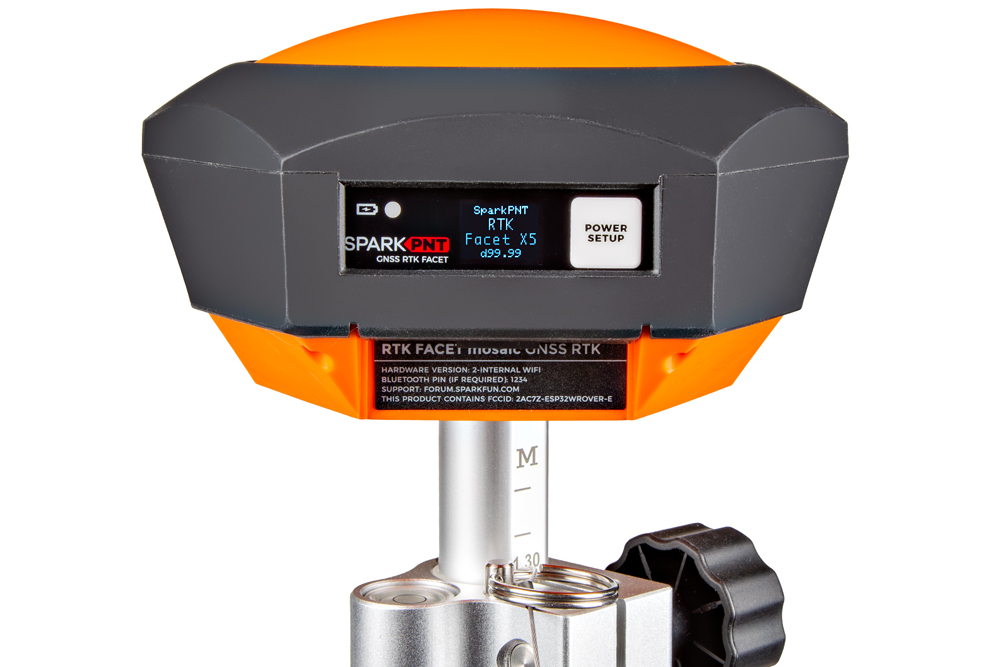
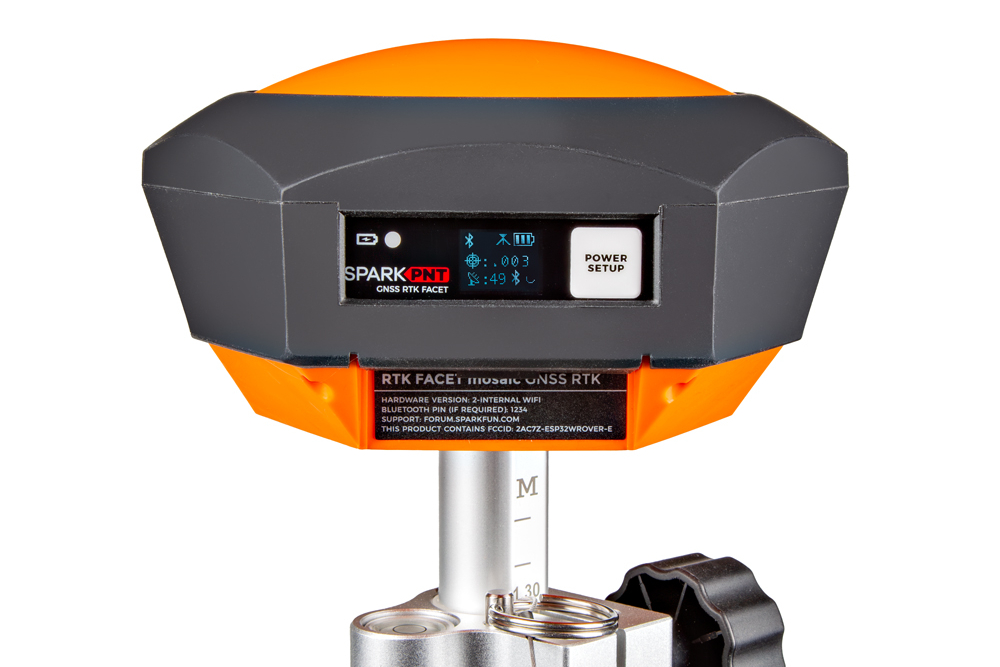
Fix photos

Changed region(s): [[0.124, 0.0, 0.868, 0.7496], [0.341, 0.7796, 0.806, 1.0], [0.341, 0.1799, 0.372, 0.2099]]

diff --git a/docs/hardware_overview.md b/docs/hardware_overview.md
@@ -160,7 +160,7 @@ The design of the SparkPNT RTK Facet mosaic L-Band is similar to previous genera
 ## Power/Setup Button
 
 <figure markdown>
-![RTK Facet mosaic Front Face](https://cdn.sparkfun.com//assets/parts/1/9/7/4/6/20000-SparkFun_RTK_Facet_L-Band-01.jpg)
+[![RTK Facet mosaic Front Face](./assets/img/hookup_guide/button-external_power-setup.png){ width="500" }](./assets/img/hookup_guide/button-external_power-setup.png "Click to enlarge")
 <figcaption markdown>
 </figcaption>
 The ++"POWER/SETUP"++ button on the front of the RTK Facet mosaic.
@@ -214,7 +214,7 @@ The RTK Facet mosaic has a large, built-in 6000mAh lithium polymer battery that 
 #### Charge LED
 
 <figure markdown>
-[![RTK Facet mosaic Charge LED](https://cdn.sparkfun.com/r/600-600/assets/learn_tutorials/2/1/8/8/SparkFun_RTK_Facet_-_Front_Face_-_Charge_LED.jpg)](https://cdn.sparkfun.com/assets/learn_tutorials/2/1/8/8/SparkFun_RTK_Facet_-_Front_Face_-_Charge_LED.jpg)
+[![RTK Facet mosaic Charge LED](./assets/img/hookup_guide/LED-charge.png){ width="500" }](./assets/img/hookup_guide/LED-charge.png "Click to enlarge")
 <figcaption markdown>
 Charge LED indicator on the RTK Facet mosaic.
 </figcaption>
@@ -251,7 +251,7 @@ At *Power On* the device will enter **Rover** or **Base** mode; whichever state 
 ## Connectors
 
 <figure markdown>
-[![RTK Facet mosaic Connectors](https://cdn.sparkfun.com/r/600-600/assets/learn_tutorials/2/1/8/8/SparkFun_RTK_Facet_-_Ports.jpg)](https://cdn.sparkfun.com/assets/learn_tutorials/2/1/8/8/SparkFun_RTK_Facet_-_Ports.jpg)
+[![RTK Facet mosaic Connectors](./assets/img/hookup_guide/connections.png){ width="500" }](./assets/img/hookup_guide/connections.png "Click to enlarge")
 <figcaption markdown>
 The SparkFun RTK Facet mosaic connectors shown with the dust cover removed.
 </figcaption>
@@ -262,7 +262,7 @@ There are a variety of connectors protected under a dust flap.
 ### USB
 
 <figure markdown>
-[![RTK Facet mosaic USB-C Connector](https://cdn.sparkfun.com/r/600-600/assets/learn_tutorials/2/1/8/8/SparkFun_RTK_Facet_-_Ports_-_USB.jpg)](https://cdn.sparkfun.com/assets/learn_tutorials/2/1/8/8/SparkFun_RTK_Facet_-_Ports_-_USB.jpg)
+[![RTK Facet mosaic USB-C Connector](./assets/img/hookup_guide/connections-usb.png){ width="500" }](./assets/img/hookup_guide/connections-usb.png "Click to enlarge")
 <figcaption markdown>
 </figcaption>
 </figure>
@@ -284,7 +284,7 @@ There is a USB hub built into the RTK Facet mosaic. When you attach the device t
 In the image above, the `USB-SERIAL CH340` is the ESP32 and the `USB Serial Device` is the mosaic-X5.
 
 ??? tip "Tip - USB Drivers"
-	### CH340 UART Converter
+	#### CH340 UART Converter
 	The CH340 serial-to-USB converter allows users to interface with the ESP32-WROVER-E module through the USB-C connector. To utilize the CH340, users may need to install a USB driver, which can be downloaded from the [manufacturer website](https://www.wch-ic.com/search?q=CH342&t=downloads).
 
 	<div class="grid cards" align="center" markdown>
@@ -312,8 +312,10 @@ In the image above, the `USB-SERIAL CH340` is the ESP32 and the `USB Serial Devi
 		</center>
 
 
+	---
 
-	### mosaic-X5
+
+	#### mosaic-X5
 	On Windows computers, a USB driver is required to recognize and interact with the mosaic-X5 module through the USB interface.
 
 
@@ -363,7 +365,7 @@ Configuring the RTK Facet mosaic can be done over the *USB-Serial CH340* COM por
 ### Radio
 
 <figure markdown>
-[![RTK Facet mosaic Radio Connector](https://cdn.sparkfun.com/r/600-600/assets/learn_tutorials/2/1/8/8/SparkFun_RTK_Facet_-_Ports_-_Radio.jpg)](https://cdn.sparkfun.com/assets/learn_tutorials/2/1/8/8/SparkFun_RTK_Facet_-_Ports_-_Radio.jpg)
+[![RTK Facet mosaic Radio Connector](./assets/img/hookup_guide/connections-data.png){ width="500" }](./assets/img/hookup_guide/connections-data.png "Click to enlarge")
 <figcaption markdown>
 </figcaption>
 </figure>
@@ -382,7 +384,7 @@ This 4-pin JST connector can be used to allow RTCM correction data to flow into 
 ### Data
 
 <figure markdown>
-[![RTK Facet mosaic Data Port](https://cdn.sparkfun.com/r/600-600/assets/learn_tutorials/2/1/8/8/SparkFun_RTK_Facet_-_Ports_-_Data.jpg)](https://cdn.sparkfun.com/assets/learn_tutorials/2/1/8/8/SparkFun_RTK_Facet_-_Ports_-_Data.jpg)
+[![RTK Facet mosaic Data Port](./assets/img/hookup_guide/connections-data.png){ width="500" }](./assets/img/hookup_guide/connections-data.png "Click to enlarge")
 <figcaption markdown>
 </figcaption>
 </figure>
@@ -412,8 +414,7 @@ Most applications do not need to utilize this port and will send the NMEA positi
 ### microSD
 
 <figure markdown>
-[![RTK Facet mosaic microSD connector](https://cdn.sparkfun.com/r/600-600/assets/learn_tutorials/2/1/8/8/SparkFun_RTK_Facet_-_Ports_-_microSD.jpg)](https://cdn.sparkfun.com/assets/learn_tutorials/2/1/8/8/SparkFun_RTK_Facet_-_Ports_-_microSD.jpg)
-<figcaption markdown>
+[![RTK Facet mosaic microSD connector](./assets/img/hookup_guide/connections-micro_sd.png){ width="500" }](./assets/img/hookup_guide/connections-micro_sd.png "Click to enlarge")
 </figcaption>
 </figure>
 
@@ -499,7 +500,7 @@ The following messages are supported for logging:
 ### Qwiic
 
 <figure markdown>
-[![RTK Facet mosaic Qwiic connector](https://cdn.sparkfun.com/r/600-600/assets/learn_tutorials/2/1/8/8/SparkFun_RTK_Facet_-_Ports_-_Qwiic.jpg)](https://cdn.sparkfun.com/assets/learn_tutorials/2/1/8/8/SparkFun_RTK_Facet_-_Ports_-_Qwiic.jpg)
+[![RTK Facet mosaic Qwiic connector](./assets/img/hookup_guide/connections-qwiic.png){ width="500" }](./assets/img/hookup_guide/connections-qwiic.png "Click to enlarge")
 <figcaption markdown>
 </figcaption>
 </figure>
@@ -511,7 +512,7 @@ This 4-pin [Qwiic connector](https://www.sparkfun.com/qwiic) exposes the I^2^C b
 ### Antenna
 
 <figure markdown>
-![Internal RTK Facet mosaic Antenna](https://cdn.sparkfun.com//assets/parts/1/9/7/4/6/20000-SparkFun_RTK_Facet_L-Band-02.jpg)
+[![Internal RTK Facet mosaic Antenna](./assets/img/hookup_guide/antenna.png){ width="500" }](./assets/img/hookup_guide/antenna.png "Click to enlarge")
 <figcaption markdown>
 </figcaption>
 </figure>
@@ -519,7 +520,7 @@ This 4-pin [Qwiic connector](https://www.sparkfun.com/qwiic) exposes the I^2^C b
 It's built in! Housed under the dome of the RTK Facet mosaic is a surveyor grade L1/L2/L-Band antenna. This antenna is a unique combination of elements designed to receive the GNSS signals (L1/L2) alongside the 1.55GHz PointPerfect corrections.
 
 <figure markdown>
-[![SparkFun RTK Facet mosaic Antenna Reference Point](https://cdn.sparkfun.com/r/600-600/assets/learn_tutorials/2/5/8/3/SparkFun_RTK_Facet_L-Band_ARP.jpg)](https://cdn.sparkfun.com/assets/learn_tutorials/2/5/8/3/SparkFun_RTK_Facet_L-Band_ARP.jpg)
+[![SparkFun RTK Facet mosaic Antenna Reference Point](https://cdn.sparkfun.com/r/500-500/assets/learn_tutorials/2/5/8/3/SparkFun_RTK_Facet_L-Band_ARP.jpg)](https://cdn.sparkfun.com/assets/learn_tutorials/2/5/8/3/SparkFun_RTK_Facet_L-Band_ARP.jpg)
 <figcaption markdown>
 SparkFun RTK Facet mosaic Antenna Reference Points
 </figcaption>
@@ -553,7 +554,7 @@ To quickly view the state of charge, turn on the unit. The battery icon will ind
 ## Display
 
 <figure markdown>
-![RTK Facet mosaic Front Face](https://cdn.sparkfun.com//assets/parts/1/9/7/4/6/20000-SparkFun_RTK_Facet_L-Band-01.jpg)
+[![RTK Facet mosaic Front Face](./assets/img/hookup_guide/display.png){ width="500" }](./assets/img/hookup_guide/display.png "Click to enlarge")
 <figcaption markdown>
 </figcaption>
 The display on the front of the RTK Facet mosaic.

diff --git a/docs/introduction.md b/docs/introduction.md
@@ -12,7 +12,7 @@ icon: material/book-open-page-variant
 	---
 
 	<figure markdown>
-	![Product Thumbnail](https://cdn.sparkfun.com/assets/parts/2/5/1/9/5/24903-RTK-Facet-Mosaic-L-Band-Feature.jpg)
+	![Product Thumbnail](https://cdn.sparkfun.com/assets/parts/2/5/1/9/5/24903-RTK-Facet-Mosaic-L-Band-Feature-2.jpg)
 	</figure></a>
 
 
@@ -64,13 +64,21 @@ icon: material/book-open-page-variant
 
 </div>
 
+
 !!! note "PointPerfect Coverage"
 	PointPerfect L-Band correction service for the SparkPNT RTK Facet mosaic L-Band is currently only available in the USA's 48 continuous states and the southern portion of Canada shown in the coverage map below. More information on PointPerfect can be found [here](https://developer.thingstream.io/guides/location-services/pointperfect-service-description).
 
-	![](https://cdn.sparkfun.com/assets/e/c/0/c/4/PointPerfect_Coverage-2025-Cropped-Small.png)
+	<figure markdown>
+	[![Coverage Map](https://cdn.sparkfun.com/assets/e/c/0/c/4/PointPerfect_Coverage-2025-Cropped-Small.png)](https://cdn.sparkfun.com/assets/e/c/0/c/4/PointPerfect_Coverage-2025-Cropped-Small.png "Click to enlarge")
+	<figcaption markdown>
+	Coverage map for the PointPerfect service.
+	</figcaption>
+	</figure>
+
 
 !!! failure "Permanent Installation"
 	The SparkPNT RTK Facet mosaic L-Band is not designed for permanent outdoor mounting. Please use the [RTK mosaic-X5](https://www.sparkfun.com/sparkfun-rtk-mosaic-x5.html) or the [RTK Reference Station](https://www.sparkfun.com/products/22429) that is located inside or protected from the elements. Or, for a DIY solution, the [ESP32](https://www.sparkfun.com/sparkfun-thing-plus-esp32-wroom-micro-b.html) attached to our [ZED-F9P breakout](https://www.sparkfun.com/sparkfun-gps-rtk-sma-breakout-zed-f9p-qwiic.html) is a great way to go. See our [How to Build a DIY GNSS Reference Station](https://learn.sparkfun.com/tutorials/how-to-build-a-diy-gnss-reference-station) tutorial for more information.
+
 
 !!! note "Completely Open-Source"
 	- The [RTK Everywhere firmware](https://github.com/sparkfun/SparkFun_RTK_Everywhere_Firmware) is open-source, so users can obtain, check, and even modify the device's functionality. This allows for easier feature expansion, bug maintenance, and longer device longevity.
@@ -95,7 +103,7 @@ To get started, users will need a few items. Some users may already have a few o
 
 -   <a href="https://www.sparkfun.com/sparkpnt-rtk-facet-mosaic-l-band.html">
 	<figure markdown>
-	![Product Thumbnail](https://cdn.sparkfun.com/assets/parts/2/5/1/9/5/24903-RTK-Facet-Mosaic-L-Band-Feature.jpg)
+	![Product Thumbnail](https://cdn.sparkfun.com/assets/parts/2/5/1/9/5/24903-RTK-Facet-Mosaic-L-Band-Feature-2.jpg)
 	</figure>
 
 	---
@@ -293,7 +301,7 @@ As a more sophisticated product, we will skip over the more fundamental tutorial
 
 -   <a href="https://learn.sparkfun.com/tutorials/813">
 	<figure markdown>
-	![Tutorial Thumbnail](https://cdn.sparkfun.com/c/178-100/assets/learn_tutorials/8/1/3/Location-Wandering-GPS-combined.jpg)
+	![Tutorial Thumbnail](https://cdn.sparkfun.com/c/264-148/assets/learn_tutorials/8/1/3/Location-Wandering-GPS-combined.jpg)
 	</figure>
 
 	---
@@ -302,7 +310,7 @@ As a more sophisticated product, we will skip over the more fundamental tutorial
 
 -   <a href="https://learn.sparkfun.com/tutorials/2583">
 	<figure markdown>
-	![Tutorial Thumbnail](https://cdn.sparkfun.com/assets/learn_tutorials/2/5/8/3/SparkFun_RTK_Facet_-_Hookup_Guide_Preview.jpg)
+	![Tutorial Thumbnail](https://cdn.sparkfun.com/c/264-148/assets/learn_tutorials/2/5/8/3/SparkFun_RTK_Facet_-_Hookup_Guide_Preview.jpg)
 	</figure>
 
 	---
@@ -311,7 +319,7 @@ As a more sophisticated product, we will skip over the more fundamental tutorial
 
 -   <a href="https://learn.sparkfun.com/tutorials/1362">
 	<figure markdown>
-	![Tutorial Thumbnail](https://cdn.sparkfun.com/assets/learn_tutorials/1/3/6/2/GNSS_RTK_DIY_Surveying_Tutorial.jpg)
+	![Tutorial Thumbnail](https://cdn.sparkfun.com/c/264-148/assets/learn_tutorials/1/3/6/2/GNSS_RTK_DIY_Surveying_Tutorial.jpg)
 	</figure>
 
 	---
@@ -320,7 +328,7 @@ As a more sophisticated product, we will skip over the more fundamental tutorial
 
 -   <a href="https://learn.sparkfun.com/tutorials/1363">
 	<figure markdown>
-	![Tutorial Thumbnail](https://cdn.sparkfun.com/assets/learn_tutorials/1/3/6/3/Roof_Enclosure.jpg)
+	![Tutorial Thumbnail](https://cdn.sparkfun.com/c/264-148/assets/learn_tutorials/1/3/6/3/Roof_Enclosure.jpg)
 	</figure>
 
 	---

diff --git a/README.md b/README.md
@@ -1,7 +1,7 @@
 SparkPNT RTK Facet mosaic L-Band
 ========================================
 
-[![SparkPNT RTK Facet mosaic L-Band](https://cdn.sparkfun.com/r/600-600/assets/parts/2/5/1/9/5/24903-RTK-Facet-Mosaic-L-Band-Feature.jpg)](https://www.sparkfun.com/sparkpnt-rtk-facet-mosaic-l-band.html)
+[![SparkPNT RTK Facet mosaic L-Band](https://cdn.sparkfun.com/r/600-600/assets/parts/2/5/1/9/5/24903-RTK-Facet-Mosaic-L-Band-Feature-2.jpg)](https://www.sparkfun.com/sparkpnt-rtk-facet-mosaic-l-band.html)
 
 [*SparkPNT RTK Facet mosaic L-Band (GPS-24903)*](https://www.sparkfun.com/sparkpnt-rtk-facet-mosaic-l-band.html)
 
